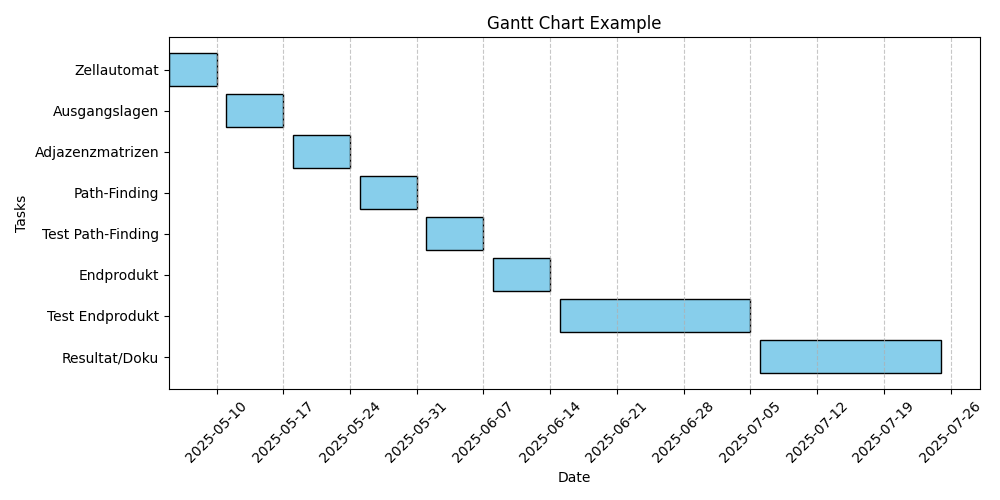
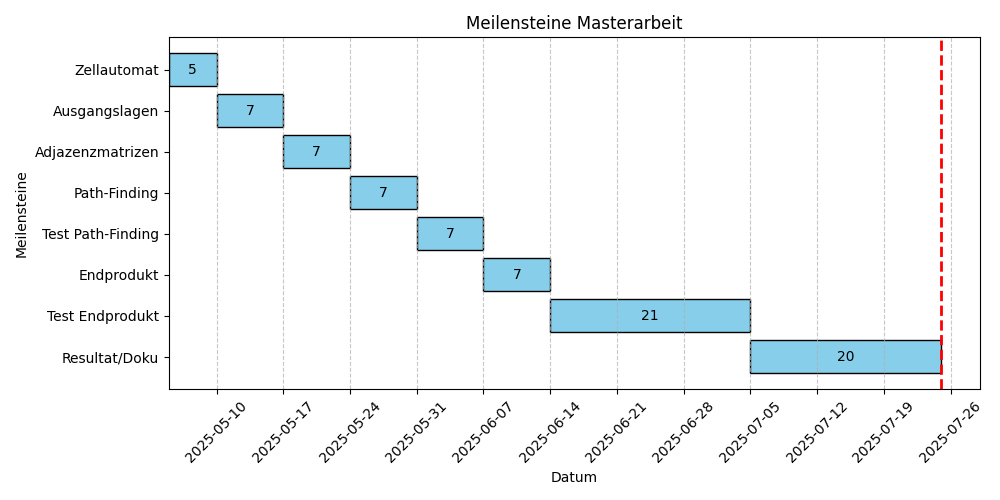
Gantt Chart fertiggestellt

diff --git a/GANTT/gantt_Chart.py b/GANTT/gantt_Chart.py
@@ -23,13 +23,13 @@ Ende Master 25.Juli
 
 # Sample task data with (Task Name, Start Date, End Date)
 tasks = [
-    ("Resultat/Doku", "6-7-2025", "25-7-2025"),
-    ("Test Endprodukt", "15-6-2025", "5-7-2025"),
-    ("Endprodukt", "8-6-2025", "14-6-2025"),
-    ("Test Path-Finding", "1-6-2025", "7-6-2025"),
-    ("Path-Finding", "25-5-2025", "31-5-2025"),
-    ("Adjazenzmatrizen", "18-5-2025", "24-5-2025"),
-    ("Ausgangslagen", "11-5-2025", "17-5-2025"),
+    ("Resultat/Doku", "5-7-2025", "25-7-2025"),
+    ("Test Endprodukt", "14-6-2025", "5-7-2025"),
+    ("Endprodukt", "7-6-2025", "14-6-2025"),
+    ("Test Path-Finding", "31-5-2025", "7-6-2025"),
+    ("Path-Finding", "24-5-2025", "31-5-2025"),
+    ("Adjazenzmatrizen", "17-5-2025", "24-5-2025"),
+    ("Ausgangslagen", "10-5-2025", "17-5-2025"),
     ("Zellautomat", "5-5-2025", "10-5-2025"),
 ]
 # Convert string dates to datetime objects
@@ -44,15 +44,18 @@ fig, ax = plt.subplots(figsize=(10, 5))
 # Plot tasks
 y_pos = range(len(tasks))
 for i, (task, start, end) in enumerate(tasks):
-    ax.barh(task, (end - start).days, left=start, color='skyblue', edgecolor='black')
+    p = ax.barh(task, (end - start).days, left=start, color='skyblue', edgecolor='black')
+    ax.bar_label(p, label_type='center')
 
 # Format x-axis
 ax.xaxis.set_major_locator(mdates.DayLocator(interval=7))  # Tick every 5 days
 ax.xaxis.set_major_formatter(mdates.DateFormatter("%Y-%m-%d"))
+ax.axvline(str_to_date("25-7-2025"), color='red', linestyle="--", linewidth=2, label="Ende Master")
+
 plt.xticks(rotation=45)
-plt.xlabel("Date")
-plt.ylabel("Tasks")
-plt.title("Gantt Chart Example")
+plt.xlabel("Datum")
+plt.ylabel("Meilensteine")
+plt.title("Meilensteine Masterarbeit")
 plt.grid(axis='x', linestyle='--', alpha=0.7)
 
 plt.tight_layout()
